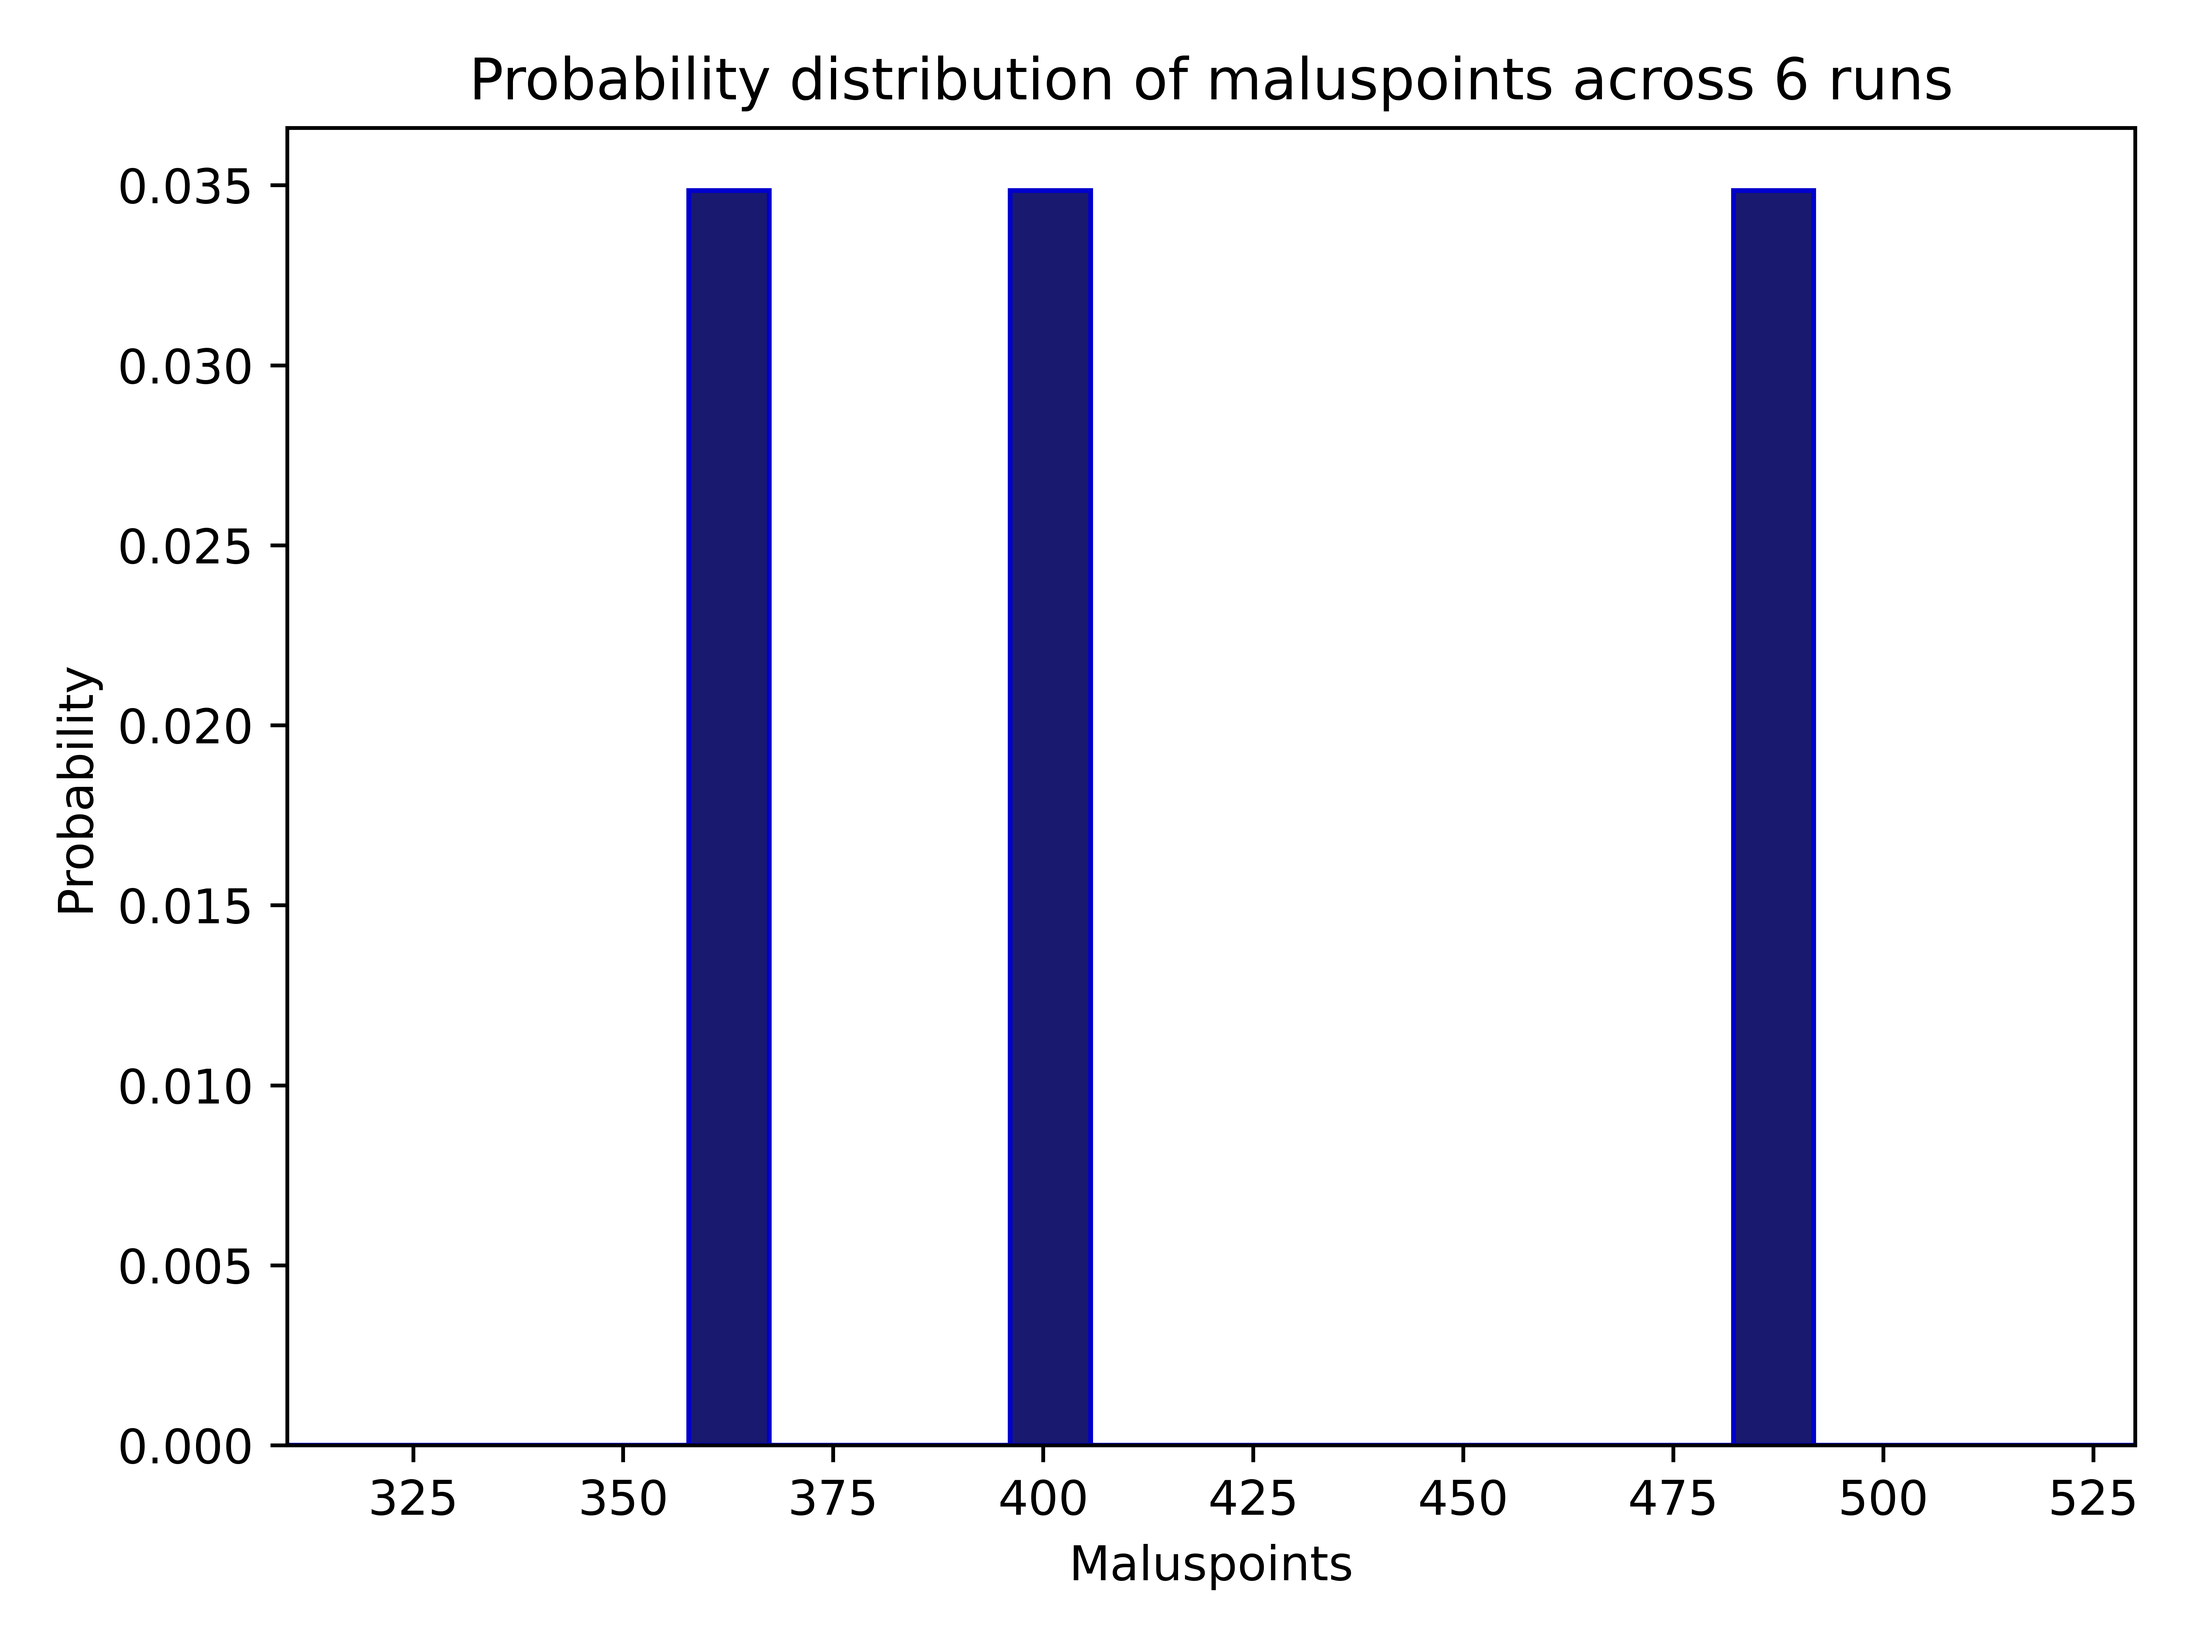
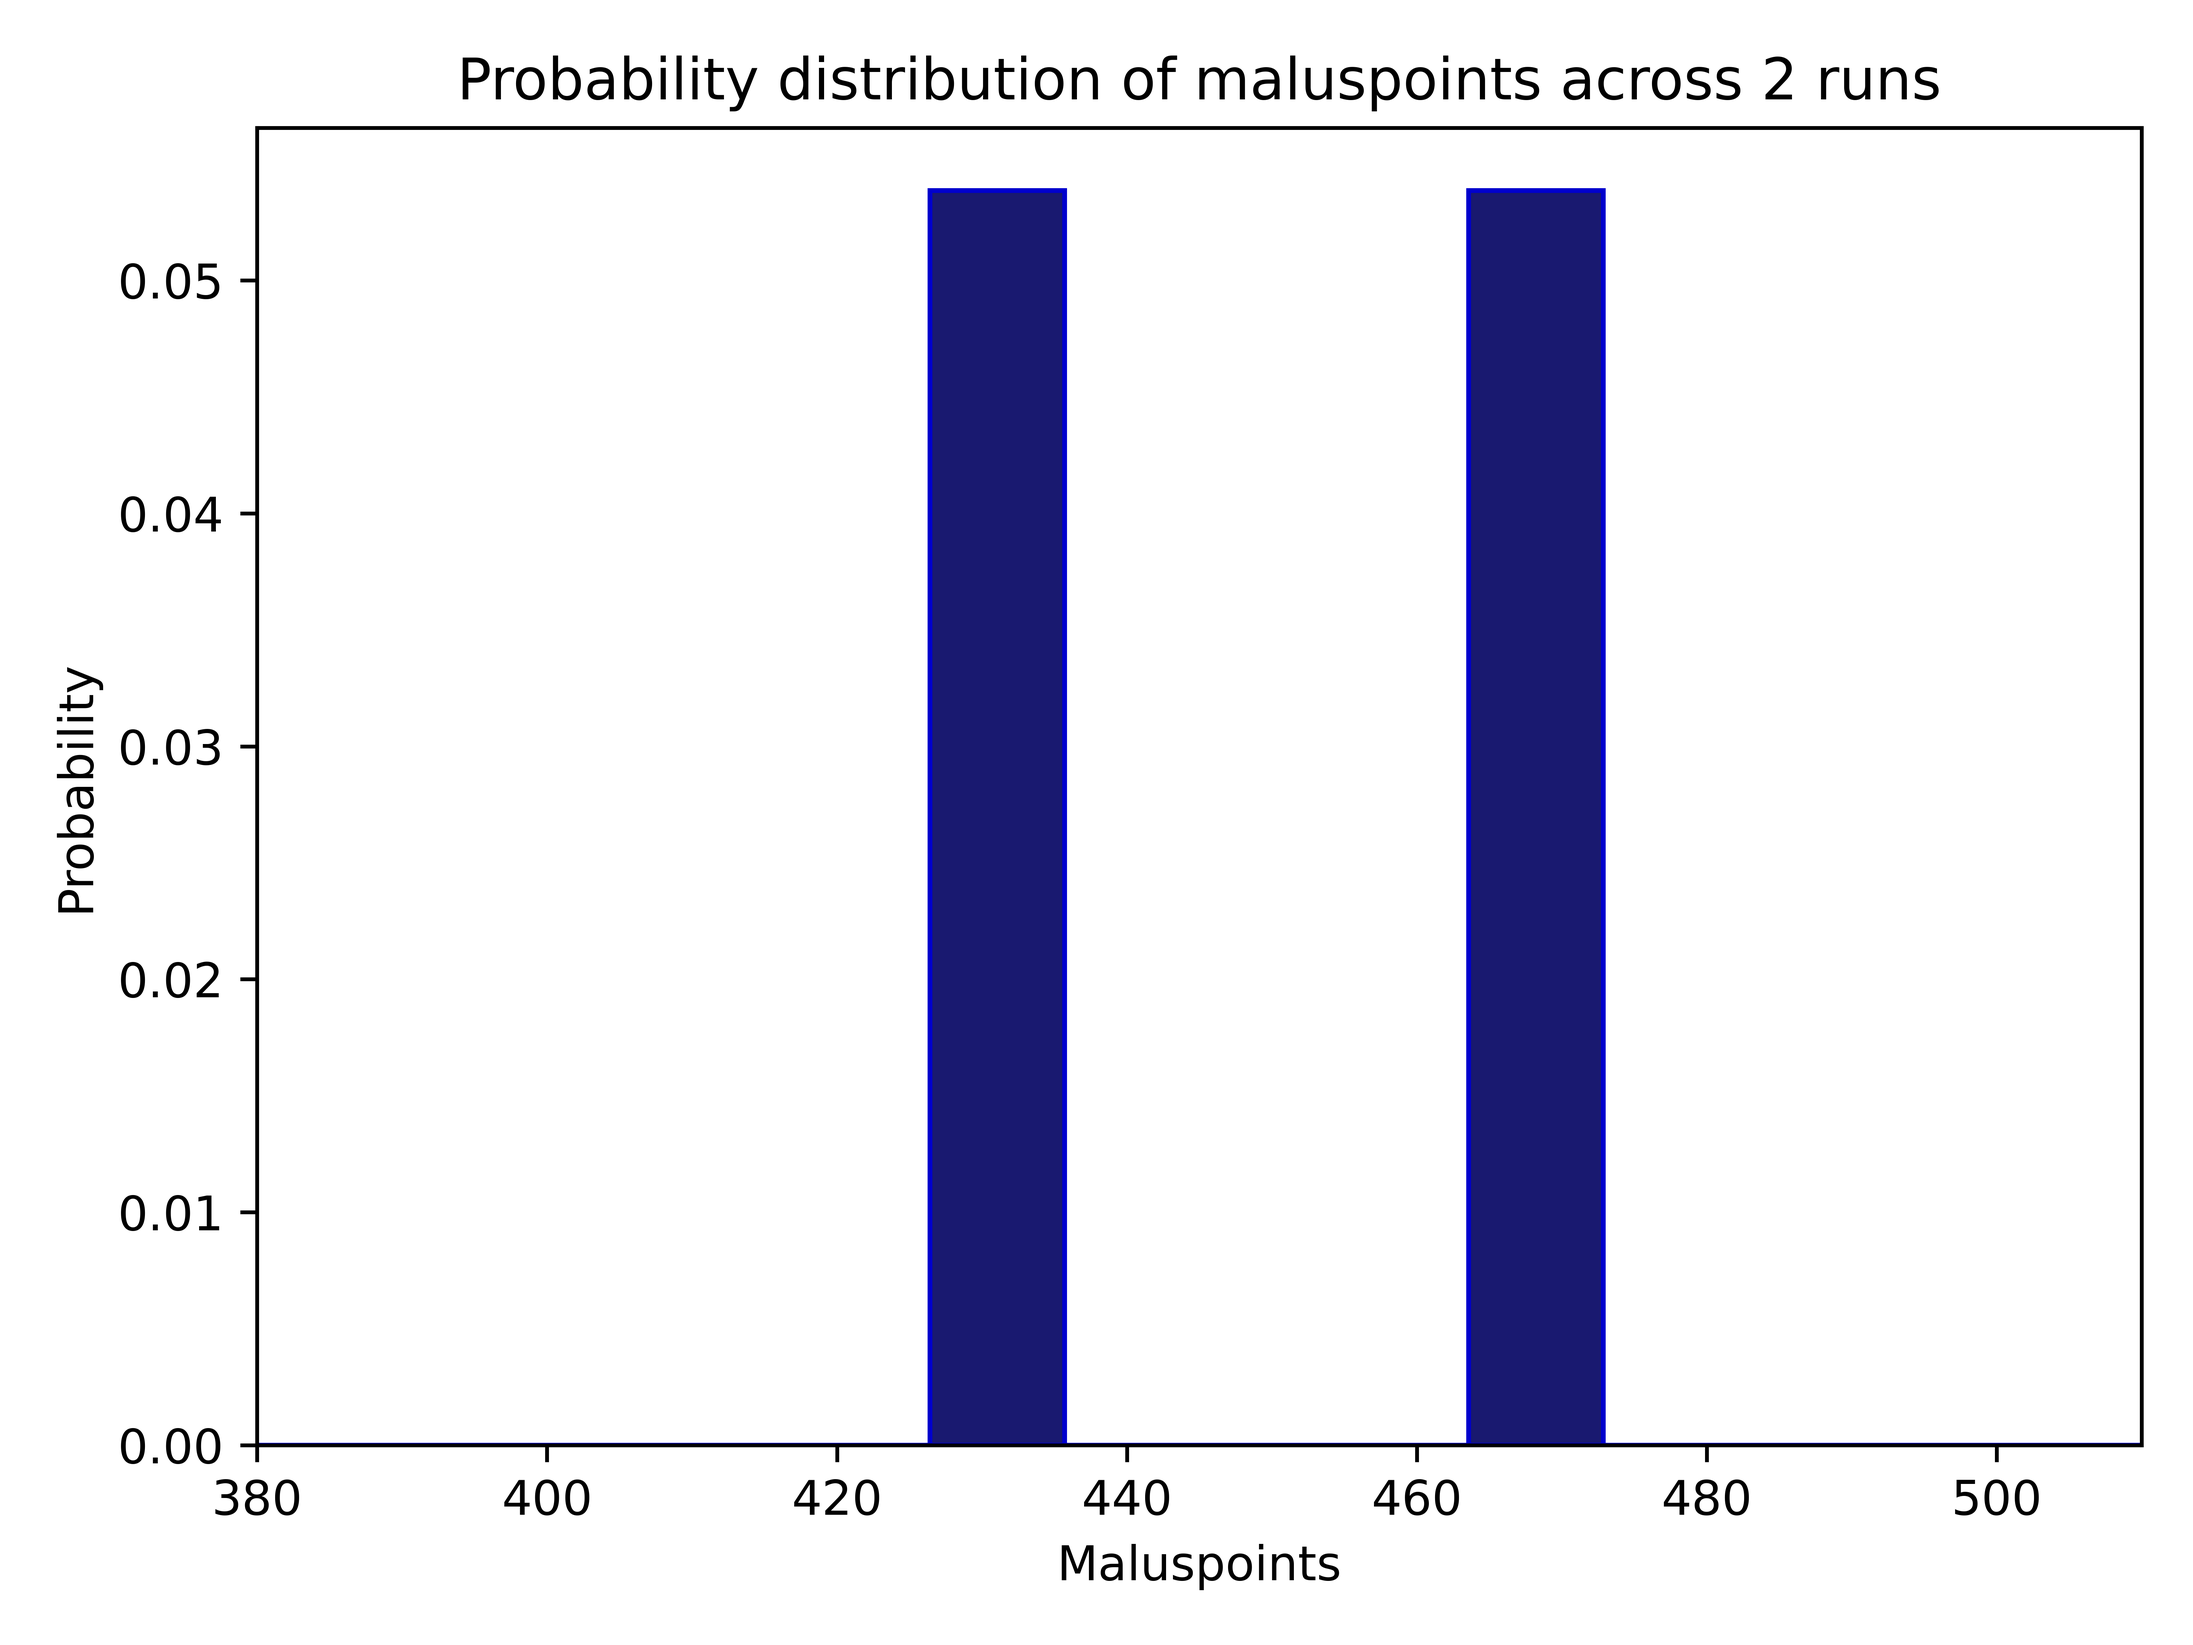
Added command line arguments for main.py

diff --git a/main.py b/main.py
@@ -1,0 +1,124 @@
+# ==================================================================================
+# main.py
+#
+# Julia Liem, Karel Nijhuis, Yvette Schröder
+#
+# - Usage: python3 main.py -i iterations (int) -d distribution (bool)
+#          -g graph (bool) -a algorithm (str) -n runs (int)
+#
+# - Creates class schedule using the provided data using a hill climber
+# - Reduces the number of maluspoints as much as possible, which are given for
+#   schedule gaps, activity conflicts, exceeding classroom capacity and using
+#   late timeslots
+# - The specific hill climber can be chosen using the algorithm argument,
+#   and the number of iterations in the argument can be provided with the
+#   iterations argument
+# - A line graph may be created with the graph argument which plots the number of
+#   maluspoints against the iterations
+# - A distribution graph may be created with the distribution argument which makes
+#   a histogram of maluspoints across n runs, which can be set with the runs
+#   argument
+# - Do not create a line graph and distribution graph at the same time, as it
+#   may cause bugs
+# ==================================================================================
+
+import time
+from statistics import mean
+import argparse
+
+from code.algorithms.planner import Planner
+
+from code.algorithms.semirandom import semirandom
+from code.algorithms.random import random_method
+from code.algorithms.hill_climber import HillClimber
+
+from code.loader import load_all
+from code.checker import checker
+from code.visualisations import store, distribution, plot
+
+class InvalidAlgorithm(Exception):
+    pass
+
+
+def main(iterations, graph, algorithm):
+    """
+    Main function for this programm
+        * Loads and uses source information in hill climber
+        * Evaluates hill climber results
+        * Stores results and plotting
+
+    ARGS:
+    iterations : int
+        Number of iterations the algorithm will go through
+    graph : bool
+        Wether or not a graph will be made for the hill climber
+    algorithm : str
+        The algorithm that will be used to create the schedule
+
+    RETURNS:
+        Number of maluspoints
+    """
+
+    # Load classrooms, students and courses
+    classrooms_list, students_set, course_set = load_all()
+    points = 0
+
+    # Fill planner with semirandom method
+    while points == False or points == 0:
+        planner = Planner(classrooms_list)
+        semirandom(course_set, classrooms_list, planner, planner.days, planner.times)
+        student_dict = planner.create_student_dict(students_set)
+        points = checker(planner.slots, student_dict)
+
+    # Create object of class hill climber
+    hill = HillClimber(planner, course_set, students_set)
+
+    # Run hill climber method and evaluate its results
+    if algorithm == 'climber':
+        i = hill.run(iterations)
+    elif algorithm == 'annealing':
+        i = hill.run_annealing(iterations)
+    elif algorithm == 'annealing_climber':
+        i = hill.run_annealing_climber(iterations)
+    else:
+        raise InvalidAlgorithm("This algorithm is invalid")
+    student_dict = planner.create_student_dict(students_set)
+    points = checker(planner.slots, student_dict)
+
+    # Create visualisation and csv dataset from results
+    if graph:
+        plot(hill.plotx, hill.ploty, hill.streak)
+
+    # Save to csv
+    store(students_set, planner, points)
+    return points, i
+
+
+if __name__ == '__main__':
+    # Set-up parsing command line arguments
+    parser = argparse.ArgumentParser(description='create a class schedule')
+
+    # Adding arguments
+    parser.add_argument('-i', '--iterations', type=int, default=10000,help='hill climber iterations (default: 10000)')
+    parser.add_argument('-d', '--distribution', type=bool,default=False, help='create distribution histogram (default: False)')
+    parser.add_argument('-g', '--graph',   type=bool,default=False,
+                        help='create lines graph for single run, do not use together with distribution! (default: False)')
+    parser.add_argument('-n', '--runs', type=int, default=1, help='number of runs (default: 5)')
+    parser.add_argument('-a', '--algorithm', type=str, default='climber', help='select algorithm: climber, annealing or annealing_climber (default: climber)')
+
+    # Read arguments from command line
+    args = parser.parse_args()
+
+    # Run main with provided arguments
+    points, iterations = [], []
+    for _ in range(args.runs):
+        new_points, i = main(args.iterations, args.graph, args.algorithm)
+        points.append(new_points)
+        iterations.append(i)
+
+    print("\n Average: " + str(mean(points)))
+    print("\n Average iterations: " + str(mean(iterations)))
+
+    # Create probability distribution from all runs
+    if args.distribution:
+        distribution(points, args.runs)

diff --git a/code/algorithms/hill_climber.py b/code/algorithms/hill_climber.py
@@ -5,7 +5,6 @@ parent = os.path.dirname(current)
 sys.path.append(parent)
 
 from random import choice, random, sample
-import matplotlib.pyplot as plt
 
 from checker import checker
 import time
@@ -144,7 +143,7 @@ class HillClimber:
         student.add_activity(new_group)
 
 
-    def run(self):
+    def run(self, n):
         # start = time.time()
         """
         ARGS:
@@ -166,7 +165,7 @@ class HillClimber:
         student_dict = self.planner.create_student_dict(self._students)
         old_points = checker(self.planner.slots, student_dict)
 
-        while streak < 30:
+        while streak < n:
             # if i % 100000 == 0:
             #     print(time.time() - start, i, streak, old_points)
 
@@ -212,7 +211,7 @@ class HillClimber:
         return i
 
 
-    def run_annealing_climber(self):
+    def run_annealing_climber(self, n):
         streak = 0
         i = 0
         # Count current maluspoints
@@ -257,7 +256,7 @@ class HillClimber:
         x = 1
         Tstart = old_points
 
-        while streak < 100 or x < 20000:
+        while streak < n or x < 20000:
             print(i, streak, old_points)
 
             index_activity_1, index_activity_2 = self.activity_switch()
@@ -303,7 +302,7 @@ class HillClimber:
             # self.plotx.append(i)
             # self.ploty.append(new_points)
 
-        while streak < 100:
+        while streak < n:
             print(i, streak, old_points)
 
             index_activity_1, index_activity_2 = self.activity_switch()
@@ -339,14 +338,14 @@ class HillClimber:
         return i
 
 
-    def run_annealing(self):
+    def run_annealing(self, n):
         streak = 0
         # Count current maluspoints
         student_dict = self.planner.create_student_dict(self._students)
         old_points = checker(self.planner.slots, student_dict)
 
         Tstart = old_points
-        for x in range(35000):
+        for x in range(n):
 
             index_activity_1, index_activity_2 = self.activity_switch()
             student_dict = self.planner.create_student_dict(self._students)
@@ -497,9 +496,3 @@ class HillClimber:
             i += 1
             self.plotx.append(i)
             self.ploty.append(old_points)
-
-
-    def add_value(self, i, new_points):
-        i += 1
-        self.plotx.append(i)
-        self.ploty.append(new_points)

diff --git a/code/algorithms/planner.py b/code/algorithms/planner.py
@@ -1,9 +1,3 @@
-from math import floor
-
-import random
-#from code.objects.classroom import Classroom
-#from copy import copy
-
 class Planner:
 
     def __init__(self, rooms) -> None:
@@ -157,21 +151,3 @@ class Planner:
         seen = set()
         dups = [x for x in lst if x in seen or seen.add(x)]
         return len(dups) > 0
-
-
-if __name__ == '__main__':
-    pass
-    # plan = Planner([
-    #     Classroom('A',20),
-    #     Classroom('B',20),
-    #     Classroom('C',20),
-    #     Classroom('D',20),
-    #     Classroom('E',20),
-    #     Classroom('F',20),
-    #     Classroom('G',20)
-    # ])
-
-    # activity = 'Hallo ich bin eine Activity'
-    # index = plan.insert_activity(activity, 'F', 'vr', '13-15')
-    # print(index, plan.get_info(activity))
-    # print(plan.get_activities('vr', '13-15'))
